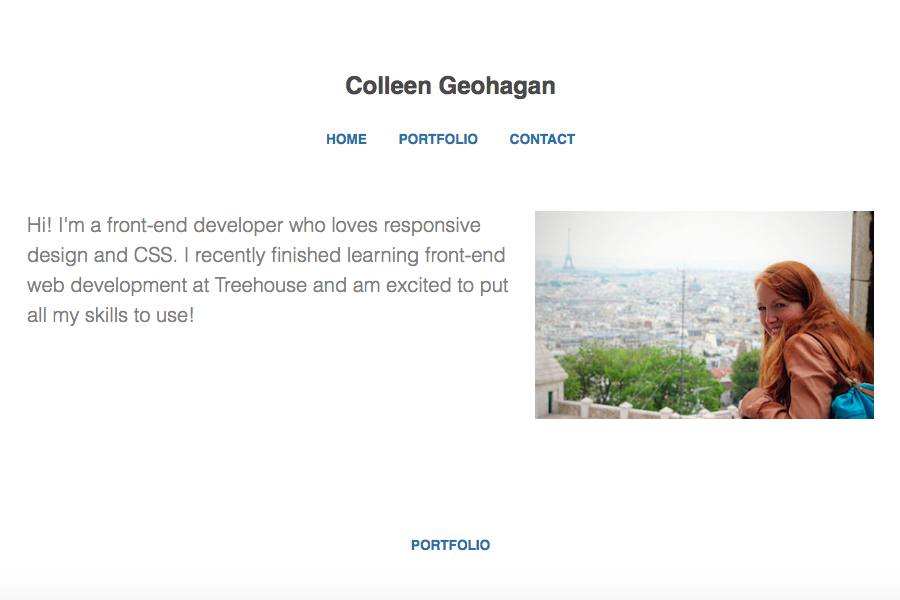
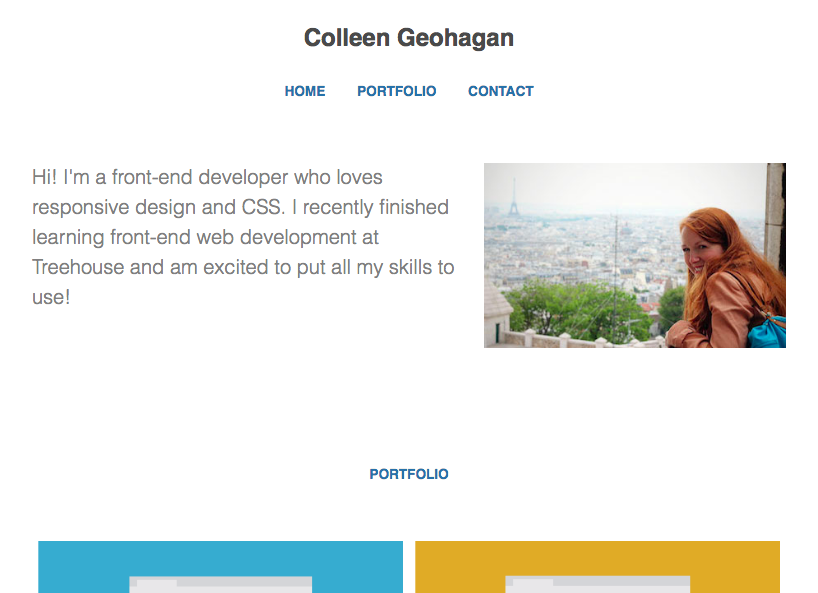
added a project

diff --git a/index.html b/index.html
@@ -22,7 +22,7 @@
 							<h2>VIDEO PLAYER</h2>
 						</div>
 					</div>
-					<p class="project-details">This project consists of an interactive video player with custom controls and interactive transcripts. The project was created using HTML, CSS, and custom Javascript, without the use of a plugin.</p>
+					<p class="project-details">This project consists of an interactive video player with custom controls and interactive transcripts. The project was created using HTML, CSS, and custom JavaScript, without the use of a plugin.</p>
 				</div>
 				<div class="project">
 					<div class="thumbnail">
@@ -44,7 +44,16 @@
 				</div>
 				<div class="project">
 					<div class="thumbnail">
-						<a href="http://cgeohagan.github.io/Interactive-Photo-Gallery/"><img src="images/Project4image.png" alt="Project 4" class="project-image"></a>	
+						<a href="https://cgeohagan.github.io/web_app/"><img src="images/Project4image.png" alt="Project 4" class="project-image"></a>	
+						<div class="project-header">
+							<h2>WEB APPLICATION</h2>
+						</div>
+					</div>
+					<p class="project-details">This project consists of a responsive web application dashboard with JavaScript-driven charts and graphs built using Chart.js.  The project was created using HTML, CSS, Sass, and JavaScript.</p>
+				</div>
+				<div class="project">
+					<div class="thumbnail">
+						<a href="http://cgeohagan.github.io/Interactive-Photo-Gallery/"><img src="images/Project5image.png" alt="Project 5" class="project-image"></a>	
 						<div class="project-header">
 							<h2>PHOTO GALLERY</h2>
 						</div>

diff --git a/css/main.css b/css/main.css
@@ -157,3 +157,9 @@ h2 {
 	text-align: center;
 	line-height: 1.3em;
 }
+
+@media screen and (min-width: 760px) {
+	.project {
+    	flex: 0 1 40%;
+	}
+}
